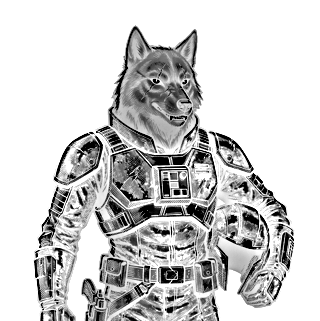
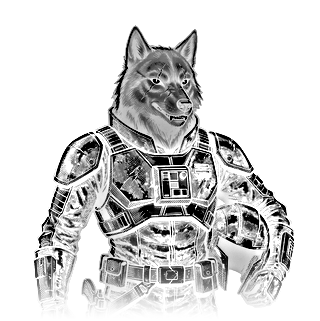
Fix white band at the bottom of the hero wolf
The dot canvas was sized before web fonts loaded; when the hero then got
shorter, each animation frame cleared only the new height, so dots piled
up in the uncleared bottom strip until it saturated white. Clear the
full bitmap every frame and re-lay out when the canvas height changes or
fonts finish loading. Also rebuild both wolf sources with margin so the
crop edge no longer gets an outline highlight, and fade the bottom of
each figure out.

Changed region(s): [[0.0938, 0.81, 0.7188, 1.0], [0.7188, 0.81, 0.9062, 0.9657]]

diff --git a/index.html b/index.html
@@ -569,7 +569,10 @@
 
       function draw(p) {
         const ctx = canvas.getContext('2d');
-        ctx.clearRect(0, 0, canvas.clientWidth, canvas.clientHeight);
+        ctx.save();
+        ctx.setTransform(1, 0, 0, 1, 0, 0);
+        ctx.clearRect(0, 0, canvas.width, canvas.height);
+        ctx.restore();
         ctx.fillStyle = '#F4F2F0';
         for (const d of dots) {
           const k = Math.min(1, Math.max(0, (p - d.d) / 0.3));
@@ -593,19 +596,23 @@
         requestAnimationFrame(tick);
       }
 
-      let lastW = 0, timer;
-      const ro = new ResizeObserver(() => {
-        if (canvas.clientWidth === lastW) return;
-        lastW = canvas.clientWidth;
+      // Re-lay out whenever the canvas changes size (e.g. once web fonts load and the section reflows)
+      let laidOut = '', timer;
+      const size = () => canvas.clientWidth + 'x' + canvas.clientHeight;
+      const relayout = () => {
+        if (size() === laidOut) return;
         clearTimeout(timer);
-        timer = setTimeout(() => layout().then(() => draw(1)), 120);
-      });
-      layout().then(() => { ro.observe(canvas); lastW = canvas.clientWidth; opts.revealNow ? reveal() : null; });
+        timer = setTimeout(() => { laidOut = size(); layout().then(() => draw(1)); }, 120);
+      };
+      const ro = new ResizeObserver(relayout);
+      laidOut = size();
+      layout().then(() => { ro.observe(canvas); relayout(); opts.revealNow ? reveal() : null; });
+      document.fonts && document.fonts.ready.then(relayout);
       return { reveal, ready };
     }
 
     const heroField = dotField(document.getElementById('hero-dots'), {
-      src: '/wolf-hero-dots.png',
+      src: '/wolf-hero-dots.png?v=2',
       step: 5, levels: 3, floor: 0, curve: 1, keep: 1, size: 0.44, a0: 0.08, a1: 0.62,
       ambientCut: 0.25,
       revealNow: true,
@@ -621,7 +628,7 @@
 
     const footCanvas = document.getElementById('foot-dots');
     const footField = dotField(footCanvas, {
-      src: '/wolf-dots.png?v=2',
+      src: '/wolf-dots.png?v=3',
       step: 5, levels: 3, floor: 0, curve: 1, keep: 1, size: 0.44, a0: 0.08, a1: 0.62,
       ambientCut: 0.15,
       place(w, h, ratio) {
